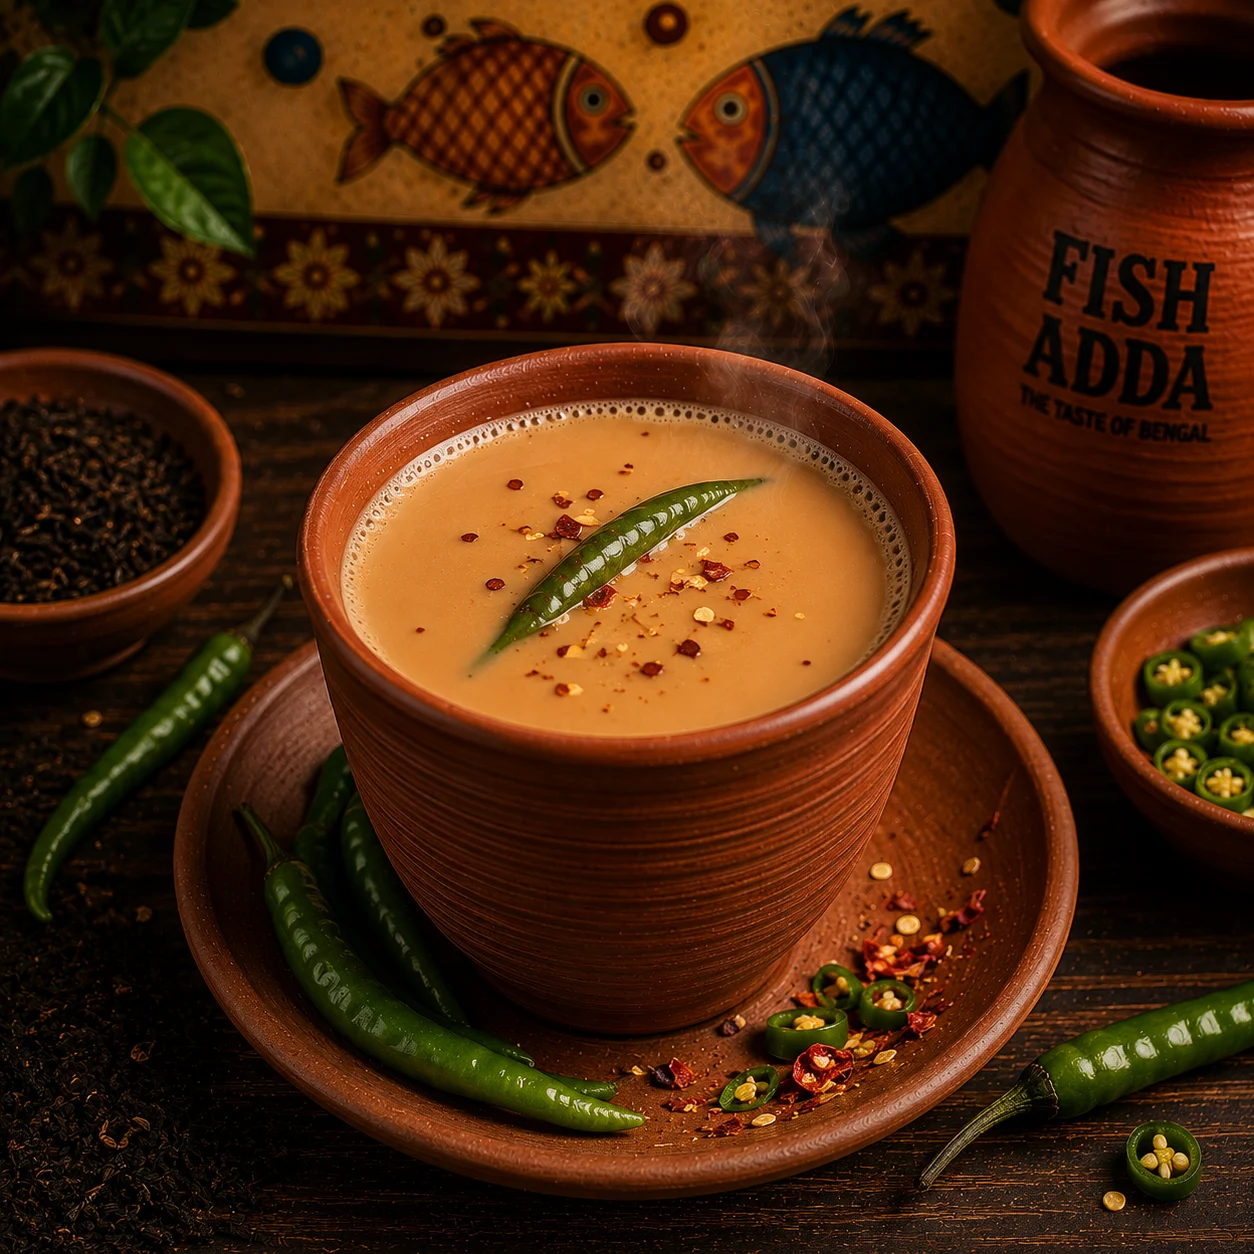
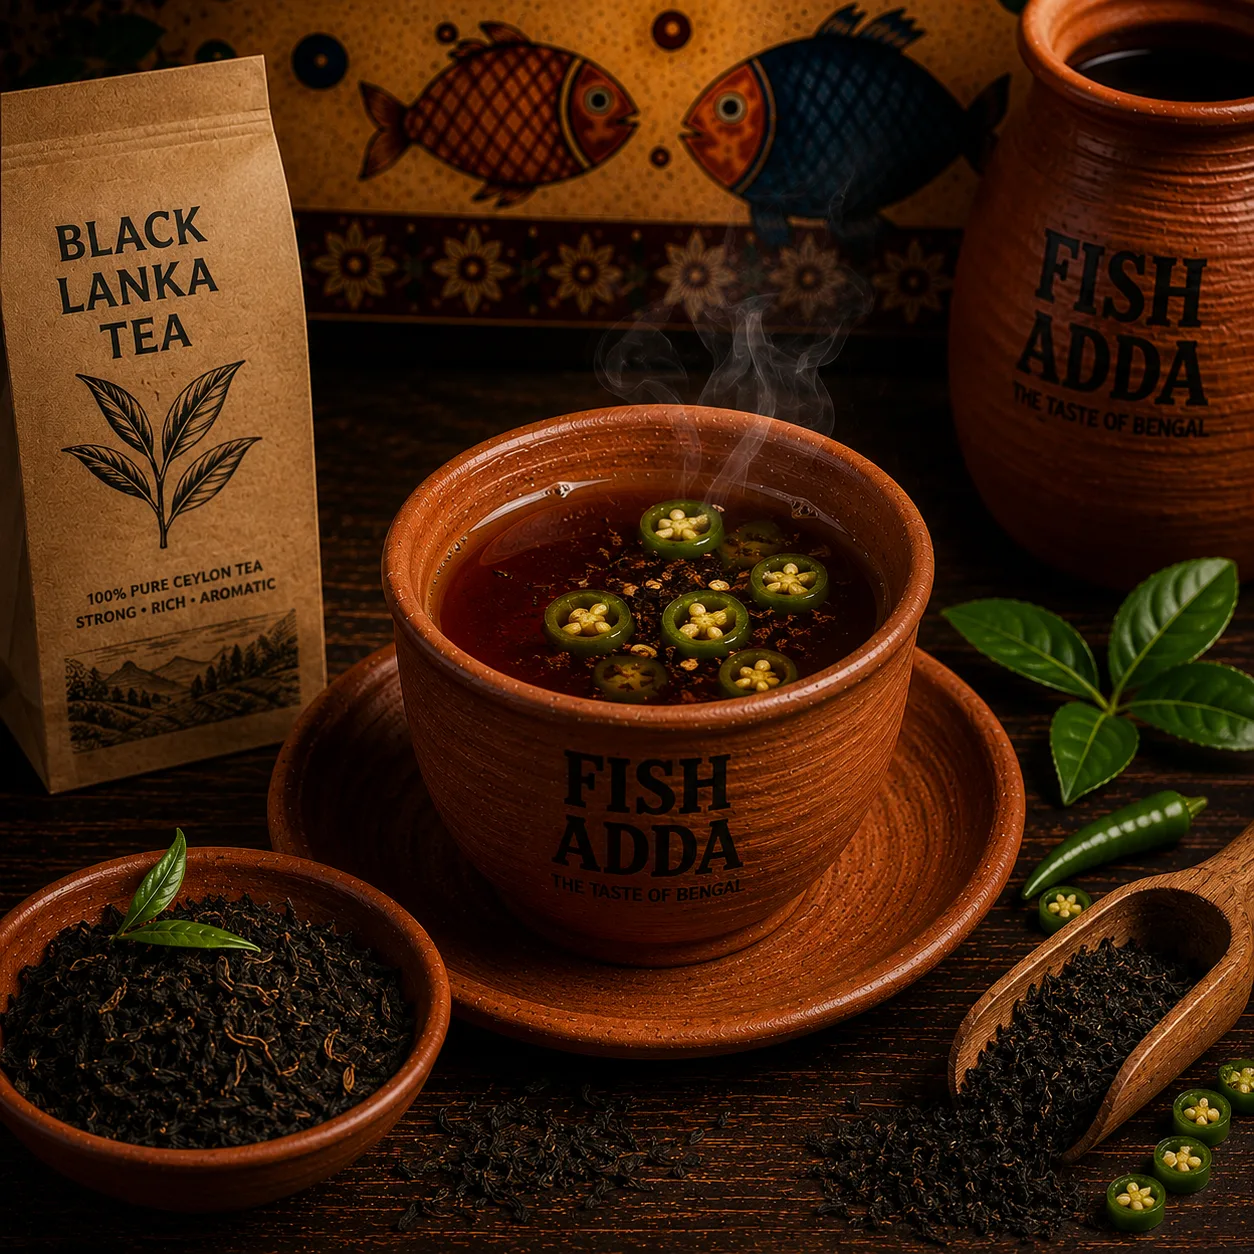
Add social media links to footer

diff --git a/src/components/footer.tsx b/src/components/footer.tsx
@@ -1,7 +1,7 @@
 import { Link } from "@tanstack/react-router";
+import { Facebook, Instagram, MapPin } from "lucide-react";
 import { AlpanaBorder, WaveLine } from "./folk";
 import { Wordmark } from "./navbar";
-import { waLink, WhatsAppIcon } from "./ui-kit";
 import { BRAND, NAV_LINKS } from "../content/site";
 
 /** Site footer, shared across every page. */
@@ -9,38 +9,101 @@ export function Footer() {
   return (
     <footer className="mt-0 bg-brick text-cream">
       <AlpanaBorder className="pt-6 opacity-90" />
+
       <div className="mx-auto grid max-w-6xl gap-10 px-5 py-12 sm:px-6 md:grid-cols-[1.2fr_1fr_1fr]">
+        
+        {/* Brand */}
         <div>
           <Wordmark tone="cream" size="lg" />
-          <p className="mt-3 text-sm text-cream/70">{BRAND.legal}</p>
-          <p className="eyebrow mt-5 text-mustard">{BRAND.comingSoonLabel}</p>
+
+          <p className="mt-3 text-sm text-cream/70">
+            {BRAND.legal}
+          </p>
+
+          <p className="eyebrow mt-5 text-mustard">
+            {BRAND.comingSoonLabel}
+          </p>
+
           <WaveLine className="mt-5 h-4 w-40 text-cream/40" />
+
+
         </div>
+
+        {/* Reach Us */}
         <div className="text-sm">
-          <p className="eyebrow mb-3 text-cream/60">Reach us</p>
-          <a href={`mailto:${BRAND.email}`} className="block underline-offset-4 hover:underline">
+          <p className="eyebrow mb-3 text-cream/60">
+            Reach us
+          </p>
+
+          <a
+            href={`mailto:${BRAND.email}`}
+            className="block underline-offset-4 hover:underline"
+          >
             {BRAND.email}
           </a>
-          <a
-            href={waLink(`Hi ${BRAND.name}! I'd like to know more.`)}
-            target="_blank"
-            rel="noopener noreferrer"
-            className="mt-2 inline-flex items-center gap-2 font-semibold text-mustard underline-offset-4 hover:underline"
-          >
-            <WhatsAppIcon /> WhatsApp us
-          </a>
+
           <address className="mt-3 not-italic leading-relaxed text-cream/75">
             {BRAND.companyAddress.line1}
             <br />
             {BRAND.companyAddress.line2}
           </address>
+
+                    {/* Social Media */}
+          <div className="mt-6">
+            <p className="eyebrow mb-3 text-cream/60">
+              Follow us
+            </p>
+
+            <div className="flex items-center gap-3">
+              {/* Facebook */}
+              <a
+                href="https://www.facebook.com/share/1C4NemtHL4/"
+                target="_blank"
+                rel="noopener noreferrer"
+                aria-label="Fish Adda on Facebook"
+                className="flex h-10 w-10 items-center justify-center rounded-full border border-cream/20 text-cream transition-all duration-300 hover:border-mustard hover:bg-mustard hover:text-brick"
+              >
+                <Facebook size={19} />
+              </a>
+
+              {/* Instagram */}
+              <a
+                href="https://www.instagram.com/fishadda.kol?igsi=NWdpOW52b2M2Z2hs"
+                target="_blank"
+                rel="noopener noreferrer"
+                aria-label="Fish Adda on Instagram"
+                className="flex h-10 w-10 items-center justify-center rounded-full border border-cream/20 text-cream transition-all duration-300 hover:border-mustard hover:bg-mustard hover:text-brick"
+              >
+                <Instagram size={19} />
+              </a>
+
+              {/* Google */}
+              <a
+                href="https://share.google/PzgkN249OG5MashGd"
+                target="_blank"
+                rel="noopener noreferrer"
+                aria-label="Fish Adda on Google"
+                className="flex h-10 w-10 items-center justify-center rounded-full border border-cream/20 text-cream transition-all duration-300 hover:border-mustard hover:bg-mustard hover:text-brick"
+              >
+                <MapPin size={19} />
+              </a>
+            </div>
+          </div>
         </div>
+
+        {/* Explore */}
         <div>
-          <p className="eyebrow mb-3 text-cream/60">Explore</p>
+          <p className="eyebrow mb-3 text-cream/60">
+            Explore
+          </p>
+
           <ul className="grid grid-cols-2 gap-y-2 text-sm md:grid-cols-1">
             {NAV_LINKS.map((l) => (
               <li key={l.to}>
-                <Link to={l.to} className="text-cream/80 underline-offset-4 hover:text-mustard hover:underline">
+                <Link
+                  to={l.to}
+                  className="text-cream/80 underline-offset-4 hover:text-mustard hover:underline"
+                >
                   {l.label}
                 </Link>
               </li>
@@ -48,7 +111,9 @@ export function Footer() {
           </ul>
         </div>
       </div>
+
       <AlpanaBorder flip className="opacity-70" />
+
       <p className="pb-24 pt-5 text-center text-[0.68rem] uppercase tracking-[0.18em] text-cream/50 lg:pb-6">
         © {new Date().getFullYear()} Jyoty Food And Beverages
       </p>

diff --git a/src/routes/index.tsx b/src/routes/index.tsx
@@ -54,9 +54,9 @@ function Home() {
             </p>
             <div className="mt-7 flex flex-wrap gap-3">
               <ButtonLink to="/menu">{HOME.hero.primaryCta}</ButtonLink>
-              <WhatsAppLink message={HOME.hero.whatsappMessage} variant="outline">
+              {/* <WhatsAppLink message={HOME.hero.whatsappMessage} variant="outline">
                 {HOME.hero.whatsappCta}
-              </WhatsAppLink>
+              </WhatsAppLink> */}
             </div>
             <p className="mt-6 flex items-center gap-2 text-sm font-semibold text-brick">
               <svg viewBox="0 0 24 24" className="h-4 w-4" fill="none" stroke="currentColor" strokeWidth="2" aria-hidden="true"><path d="M12 21s7-6.2 7-11a7 7 0 1 0-14 0c0 4.8 7 11 7 11Z"/><circle cx="12" cy="10" r="2.5"/></svg>
@@ -207,9 +207,9 @@ function Home() {
               <ButtonLink to="/contact" variant="cream">
                 {HOME.launch.primaryCta}
               </ButtonLink>
-              <WhatsAppLink message={HOME.launch.whatsappMessage} variant="ghostCream">
+              {/* <WhatsAppLink message={HOME.launch.whatsappMessage} variant="ghostCream">
                 {HOME.launch.whatsappCta}
-              </WhatsAppLink>
+              </WhatsAppLink> */}
             </div>
           </Reveal>
         </div>
@@ -232,9 +232,9 @@ function Home() {
                 <br />
                 {BRAND.companyAddress.line2}
               </address>
-              <p className="eyebrow mt-5 inline-flex rounded-full bg-mustard px-3 py-1.5 text-brick-deep">
+              {/* <p className="eyebrow mt-5 inline-flex rounded-full bg-mustard px-3 py-1.5 text-brick-deep">
                 Opening Soon
-              </p>
+              </p> */}
             </div>
           </Reveal>
           <Reveal delay={120}>

diff --git a/src/routes/contact.tsx b/src/routes/contact.tsx
@@ -66,14 +66,14 @@ function ContactPage() {
                   {BRAND.email}
                 </a>
               </p>
-              <p className="eyebrow mt-5 inline-flex rounded-full bg-mustard px-3 py-1.5 text-brick-deep">
+              {/* <p className="eyebrow mt-5 inline-flex rounded-full bg-mustard px-3 py-1.5 text-brick-deep">
                 Opening Soon
-              </p>
+              </p> */}
               <WaveLine className="mt-6 h-4 w-32 text-indigo/50" />
             </div>
 
             <div className="mt-6 flex flex-wrap gap-3">
-              <WhatsAppLink message={CONTACT.whatsappMessage}>{CONTACT.whatsappCta}</WhatsAppLink>
+              {/* <WhatsAppLink message={CONTACT.whatsappMessage}>{CONTACT.whatsappCta}</WhatsAppLink> */}
               <ButtonLink href={`mailto:${BRAND.email}`} variant="outline">
                 {CONTACT.emailCta}
               </ButtonLink>

diff --git a/src/content/images.ts b/src/content/images.ts
@@ -19,9 +19,9 @@ import dishChicken from "../assets/dish-chicken.jpg";
 import dishVeg from "../assets/dish-veg.jpg";
 import dishFry from "../assets/dish-fry.jpg";
 import dishMaggi from "../assets/dish-maggi.jpg";
-import dishPasta from "../assets/dish-pasta.jpg";
-import dishMomo from "../assets/dish-momo.jpg";
-import dishTea from "../assets/dish-tea.jpg";
+//import dishPasta from "../assets/dish-pasta.jpg";
+//import dishMomo from "../assets/dish-momo.jpg";
+import dishTea from "../assets/dish-tea.png";
 import dishCoffee from "../assets/dish-coffee.jpg";
 import dishSoftDrink from "../assets/dish-softdrink.jpg";
 
@@ -44,8 +44,8 @@ export const IMAGES = {
   dishVeg,
   dishFry,
   dishMaggi,
-  dishPasta,
-  dishMomo,
+  //dishPasta,
+  //dishMomo,
   dishTea,
   dishCoffee,
   dishSoftDrink,
